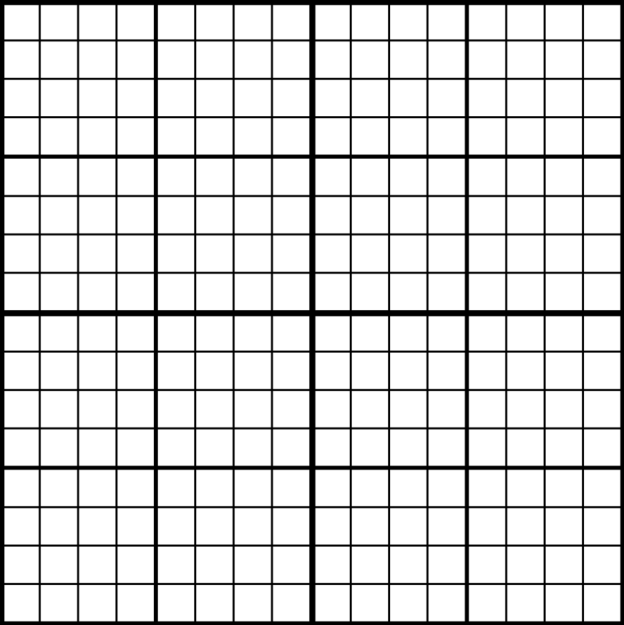
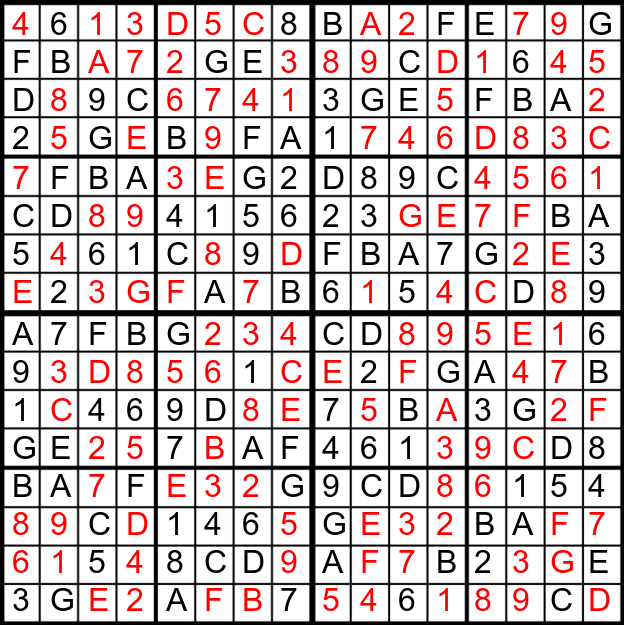
maybe thing workings

diff --git a/src/user-interface/handler.c b/src/user-interface/handler.c
@@ -67,7 +67,7 @@ void onSolveSudokuButtonClicked(GtkButton *button, gpointer user_data)
     // get checkbox status
     bool isHexa = gtk_toggle_button_get_active(ui->solver->hexaModeCheckbox);
     printf("Hexa mode: %s\n", isHexa ? "true" : "false");
-    size_t size = 9 ? isHexa == false : 16;
+    size_t size = isHexa == false ? 9 : 16;
 
     char sudoku[16][16];
     int  M[16][16] = {0};
@@ -81,18 +81,26 @@ void onSolveSudokuButtonClicked(GtkButton *button, gpointer user_data)
     loadSudoku(sudoku, path, size);
 
     // Solve it bro
+    printf("Init MagickWX\n");
+    MagickWandGenesis();
+    printf("here\n");
+    MagickWand *magick_wand = NewMagickWand();
+    printf("here2\n");
+    MagickReadImage(magick_wand, size == 9
+                                     ? "src/user-interface/jeje.png"
+                                     : "src/user-interface/sixbysix.png");
+    DrawingWand *d_wand = NewDrawingWand();
+    DrawSetFont(d_wand, "unifont");
 
-    system("rm src/user-interface/aver.png");
-    system("rm src/user-interface/jeje.png");
-    system("cp src/user-interface/sixbysix.png src/user-interface/aver.png");
-    system("cp src/user-interface/defgrid.png src/user-interface/jeje.png");
-
-    int   x        = (size == 16 ? 12 : 27);
-    int   y        = (size == 16 ? 35 : 60);
-    int   dis      = (size == 16 ? 38 : 67);
-    int   fontsize = (size == 16 ? 40 : 60);
+    int x   = (size == 16 ? 12 : 27);
+    int y   = (size == 16 ? 35 : 60);
+    int dis = (size == 16 ? 38 : 67);
+    // int   fontsize = (size == 16 ? 40 : 60);
+    int   fontsize = (size == 16 ? 32 : 60);
     char *original = (size == 16 ? "sixbysix.png" : "defgrid.png");
     char *modif    = (size == 16 ? "aver.png" : "jeje.png");
+
+    DrawSetFontSize(d_wand, size == 16 ? 32 : 50);
 
     char s[1000] = {0};
 
@@ -102,21 +110,60 @@ void onSolveSudokuButtonClicked(GtkButton *button, gpointer user_data)
       {
         if (sudoku[i][j] != '0')
         {
-          sprintf(s, "convert -font unifont -pointsize %i -fill black \
-                        -draw 'text %i,%i \"%c\"' \"src/user-interface/%s\" \
-                        \"src/user-interface/%s\"",
-                  fontsize, x, y, sudoku[i][j], modif, modif);
-          system(s);
+          char *thing = (char *)malloc(2 * sizeof(char));
+          thing[0]    = sudoku[i][j];
+          thing[1]    = '\0';
+          printf("thing: %s at (%d, %d)\n", thing, x, j);
+          DrawAnnotation(d_wand, x, y, thing);
+
           M[i][j] = 1;
         }
         x += dis;
+        if (size == 9)
+        {
+          if (j == size / 2 - 1)
+            x += 4;
+        }
+        else
+        {
+          if (j == size / 2 - 1)
+            x += 4;
+          else if (j == size / 4 - 1)
+            x += 2;
+        }
       }
 
       x = (size == 16 ? 12 : 27);
       y += dis;
+      if (size == 9)
+      {
+        if (i == size / 2 - 1)
+          y += 4;
+      }
+      else
+      {
+        if (i == size / 2 - 1)
+          y += 4;
+        else if (i == size / 4 - 1)
+          y += 2;
+      }
     }
+    if (size == 9)
+    {
+      loadImageUi(ui, "src/user-interface/jeje.png");
+    }
+    else
+    {
+      loadImageUi(ui, "src/user-interface/aver.png");
+    }
+    displayImage(ui, ui->sudokuLive);
 
     Solve(sudoku, size);
+
+    // Set magick wand drawing color red
+    PixelWand *color = NewPixelWand();
+    PixelSetColor(color, "red");
+    DrawSetFillColor(d_wand, color);
 
     x = (size == 16 ? 12 : 27);
     y = (size == 16 ? 35 : 60);
@@ -127,18 +174,50 @@ void onSolveSudokuButtonClicked(GtkButton *button, gpointer user_data)
       {
         if (M[i][j] != 1)
         {
-          sprintf(s, "convert -font unifont -pointsize %i -fill red \
-                        -draw 'text %i,%i \"%c\"' \"src/user-interface/%s\" \
-                        \"src/user-interface/%s\"",
-                  fontsize, x, y, sudoku[i][j], modif, modif);
-          system(s);
+          char *thing = (char *)malloc(2 * sizeof(char));
+          thing[0]    = sudoku[i][j];
+          thing[1]    = '\0';
+          printf("thing: %s at (%d, %d)\n", thing, x, j);
+          DrawAnnotation(d_wand, x, y, thing);
+          // DrawAnnotation(d_wand, x, y, &(sudoku[i][j]));
         }
         x += dis;
+        if (size == 9)
+        {
+          if (j == size / 2 - 1)
+            x += 4;
+        }
+        else
+        {
+          if (j == size / 2 - 1)
+            x += 4;
+          else if (j == size / 4 - 1)
+            x += 2;
+        }
       }
 
       x = (size == 16 ? 12 : 27);
       y += dis;
+      if (size == 9)
+      {
+        if (i == size / 2 - 1)
+          y += 4;
+      }
+      else
+      {
+        if (i == size / 2 - 1)
+          y += 4;
+        else if (i == size / 4 - 1)
+          y += 2;
+      }
     }
+
+    MagickDrawImage(magick_wand, d_wand);
+    MagickWriteImage(magick_wand, "output.png");
+    magick_wand = DestroyMagickWand(magick_wand);
+    MagickWandTerminus();
+    loadImageUi(ui, "output.png");
+    displayImage(ui, ui->sudokuLive);
   }
 }
 

diff --git a/src/ocr-neural-network/neural_network.c b/src/ocr-neural-network/neural_network.c
@@ -49,7 +49,7 @@ void neuralNetworkTrain(
     double         trainingInputs[nn->nbTraining][nn->nbInputNeurons],
     double         trainingOutputs[nn->nbTraining][nn->nbOutputNeurons],
     size_t trainingIndexes[nn->nbTraining], const double learningRate,
-    unsigned long nbEpochs)
+    unsigned long nbEpochs, UserInterface *ui, bool verbose)
 {
 
   // Process to train the neural network
@@ -86,7 +86,12 @@ void neuralNetworkTrain(
       }
 
       // Print informations about current activation
-      neuralNetworkPrintAssertOCR(nn, epoch, i + 1);
+      // neuralNetworkPrintAssertOCR(nn, epoch, i + 1);
+      size_t interpretation
+          = arrayMaxIndex(nn->outputLayer, nn->nbOutputNeurons) + 1;
+      nn->totalTries++;
+      if (interpretation == i + 1)
+        nn->successCount++;
 
       /* ---- BACKPROPAGATION ---- */
       // Change in output weights
@@ -127,6 +132,13 @@ void neuralNetworkTrain(
               += trainingInputs[i][k] * deltaHidden[j] * learningRate;
       }
     }
+    if (verbose)
+    {
+      char *str = malloc(100);
+      sprintf(str, "Epoch %lu: %f%% success rate", epoch,
+              (double)nn->successCount / nn->totalTries * 100);
+      addConsoleMessage(ui, str);
+    }
   }
 }
 
@@ -135,13 +147,14 @@ void neuralNetworkPrintAssertOCR(NeuralNetwork *nn, unsigned long epoch,
 {
   // print the output layer
   printf("Epoch %lu: [", epoch);
-  for (size_t i = 0; i < nn->nbOutputNeurons-1; i++)
-    printf("%zu=%f,", i+1, nn->outputLayer[i]);
-  printf("9=%f] ", nn->outputLayer[nn->nbOutputNeurons-1]);
+  for (size_t i = 0; i < nn->nbOutputNeurons - 1; i++)
+    printf("%zu=%f,", i + 1, nn->outputLayer[i]);
+  printf("9=%f] ", nn->outputLayer[nn->nbOutputNeurons - 1]);
 
-  size_t interpretation = arrayMaxIndex(nn->outputLayer, nn->nbOutputNeurons) + 1;
-  printf("Epoch %lu: image of a %zu interpreted as an image of a %zu ",
-         epoch, expected, interpretation);
+  size_t interpretation
+      = arrayMaxIndex(nn->outputLayer, nn->nbOutputNeurons) + 1;
+  printf("Epoch %lu: image of a %zu interpreted as an image of a %zu ", epoch,
+         expected, interpretation);
 
   nn->totalTries++;
   if (interpretation == expected)
@@ -173,7 +186,8 @@ void neuralNetworkPrintResults(NeuralNetwork *nn, size_t maxEpochs)
   // printf("Output layer biases:\t");
   // print1dArray(nn->outputBiases, nn->nbOutputNeurons);
 
-  printf("Success rate for %zu epochs: %lf\n", maxEpochs, (nn->successCount / nn->totalTries) * 100);
+  printf("Success rate for %zu epochs: %lf\n", maxEpochs,
+         (nn->successCount / nn->totalTries) * 100);
 }
 
 void neuralNetworkSaveOCR(NeuralNetwork *nn, const char *filename)

diff --git a/src/ocr-neural-network/neural_network.h b/src/ocr-neural-network/neural_network.h
@@ -4,6 +4,7 @@
 #include "helpers.h"
 #include "image.h"
 #include "math_nn.h"
+#include "../user-interface/utils.h"
 
 #ifndef NEURAL_NETWORK_H
 #  define NEURAL_NETWORK_H
@@ -35,7 +36,7 @@ void neuralNetworkTrain(
     double         trainingInputs[nn->nbTraining][nn->nbInputNeurons],
     double         trainingOutputs[nn->nbTraining][nn->nbOutputNeurons],
     size_t trainingIndexes[nn->nbTraining], const double learningRate,
-    unsigned long nbEpochs);
+    unsigned long nbEpochs, UserInterface *ui, bool verbose);
 
 void neuralNetworkPrintAssertOCR(NeuralNetwork *nn, unsigned long epoch,
                                  size_t expected);

diff --git a/src/ocr-neural-network/main.c b/src/ocr-neural-network/main.c
@@ -55,7 +55,7 @@ void train(char *folderPath, unsigned long maxEpochs, char *savePath,
 
   // Train the neural network
   neuralNetworkTrain(&nn, trainingInputs, trainingOutputs, trainingIndexes,
-                     learningRate, maxEpochs);
+                     learningRate, maxEpochs, ui, verbose);
 
   // Print weights & biases values after 'maxEpochs' trains
   neuralNetworkPrintResults(&nn, maxEpochs);

diff --git a/src/user-interface/handler.h b/src/user-interface/handler.h
@@ -1,4 +1,5 @@
 #pragma once
+#include <MagickWand/MagickWand.h>
 #include <gtk/gtk.h>
 #include <stdbool.h>
 #include "../image-processing/main.h"
